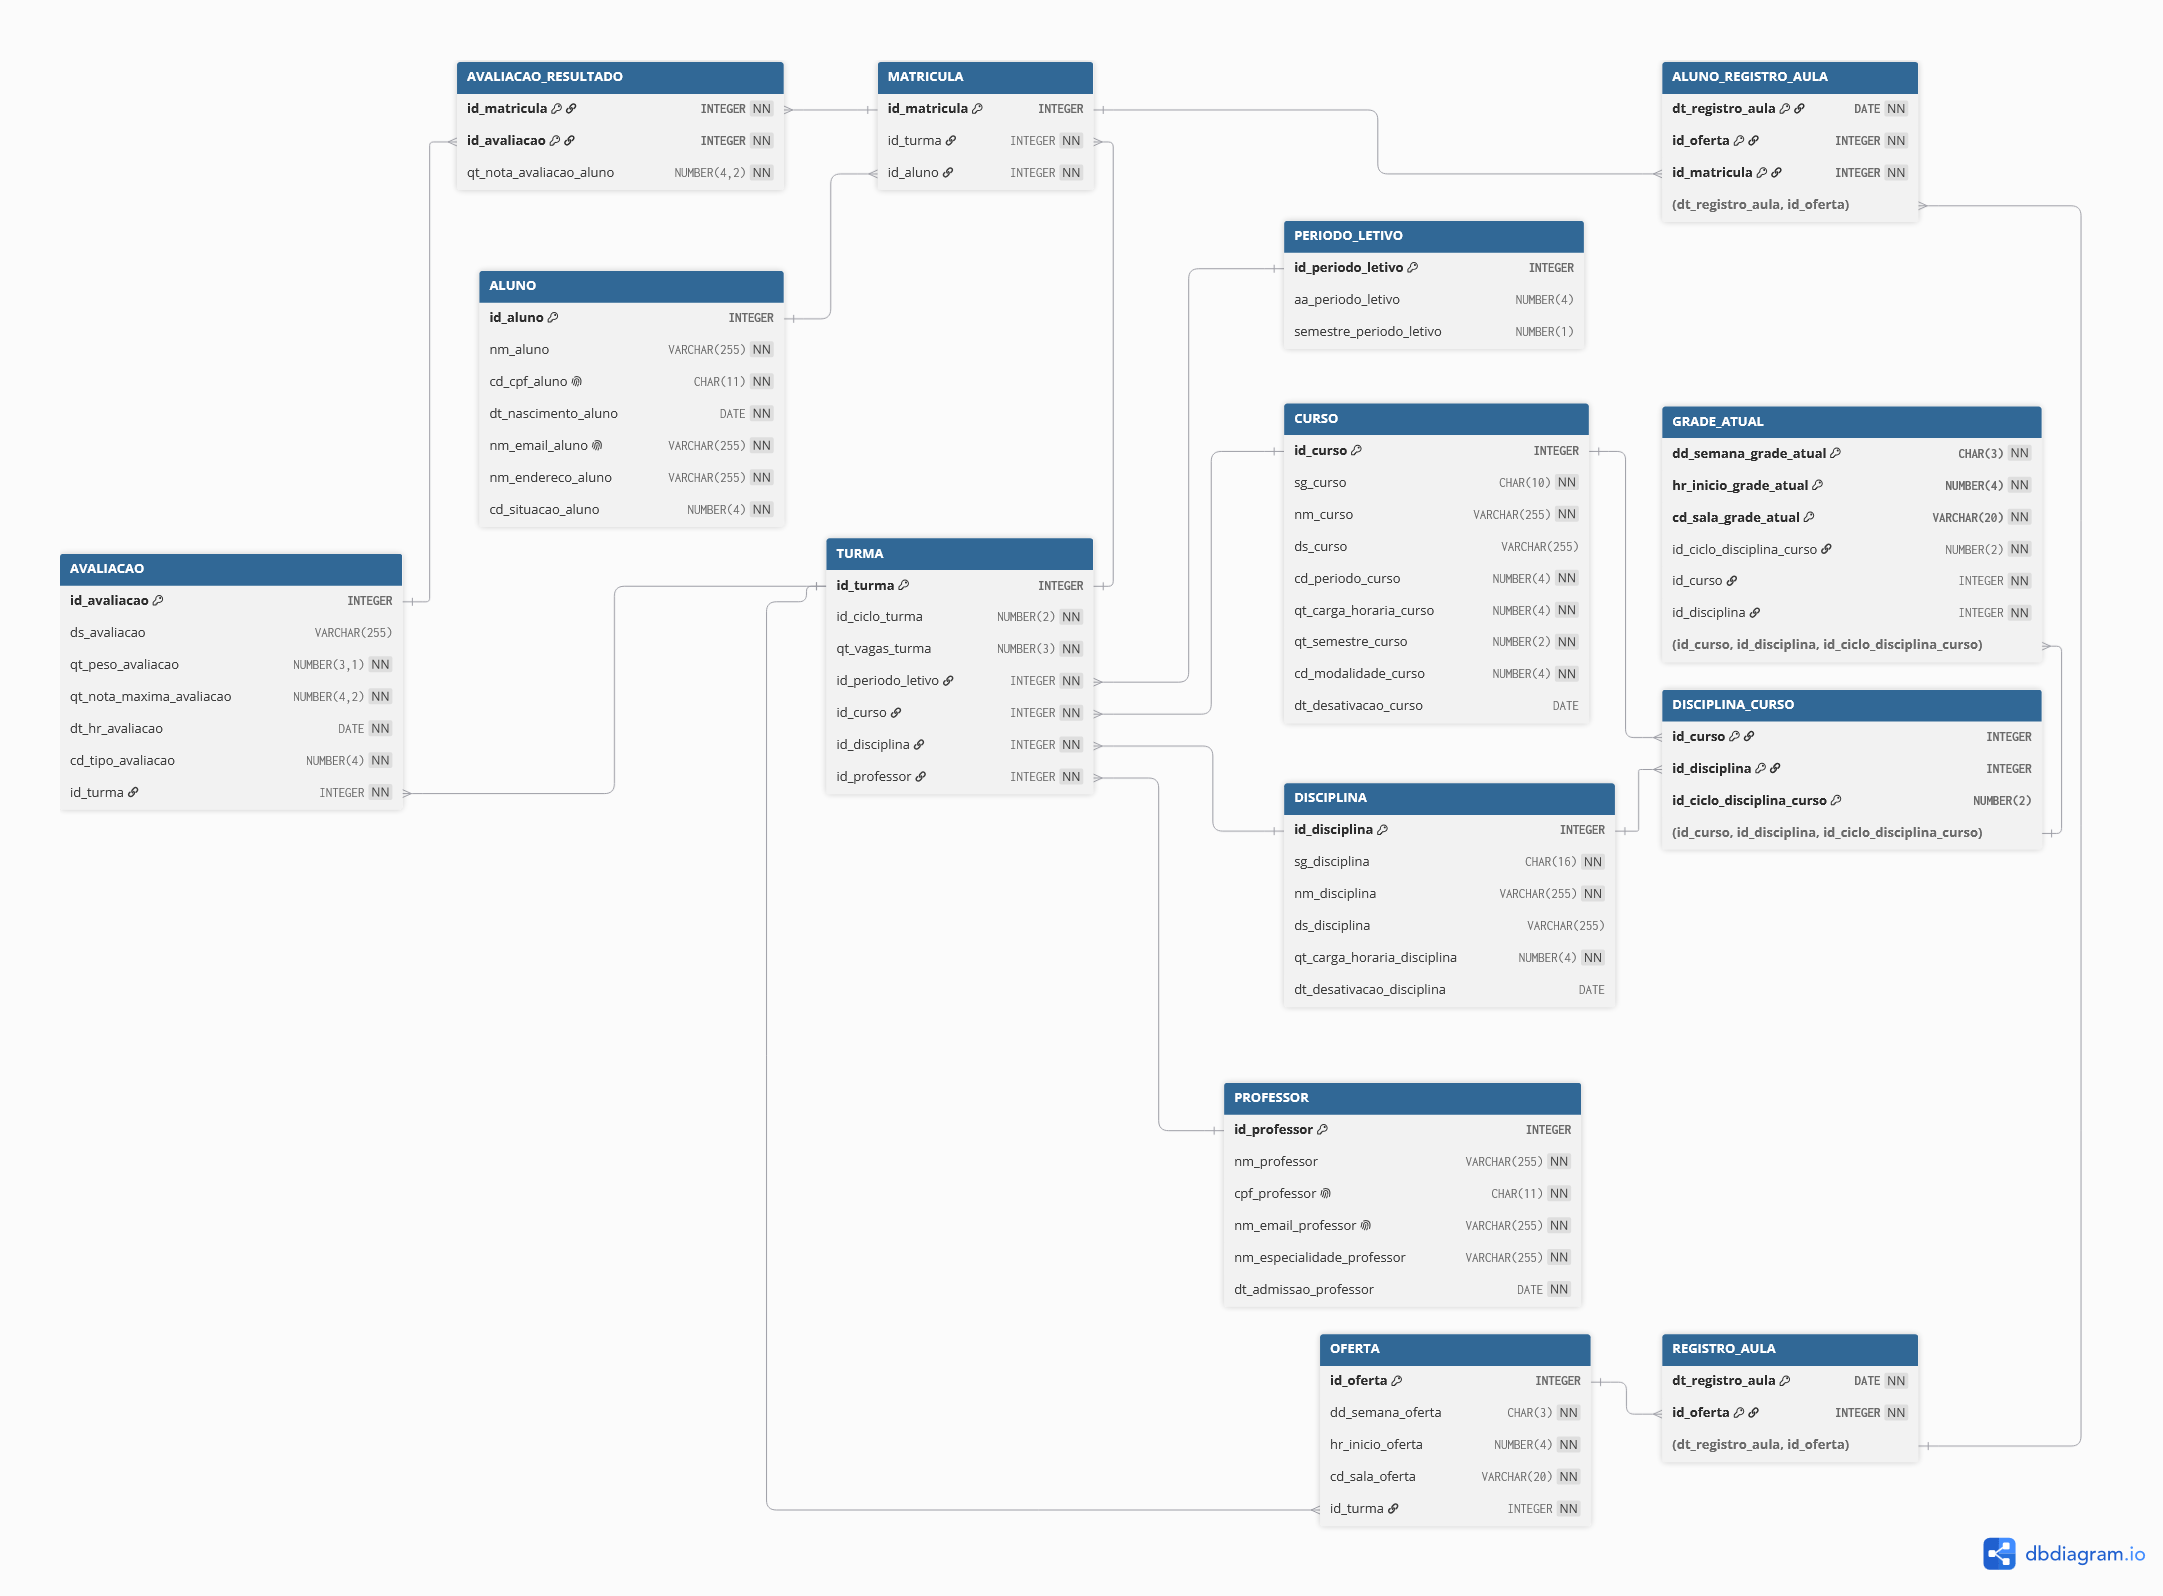
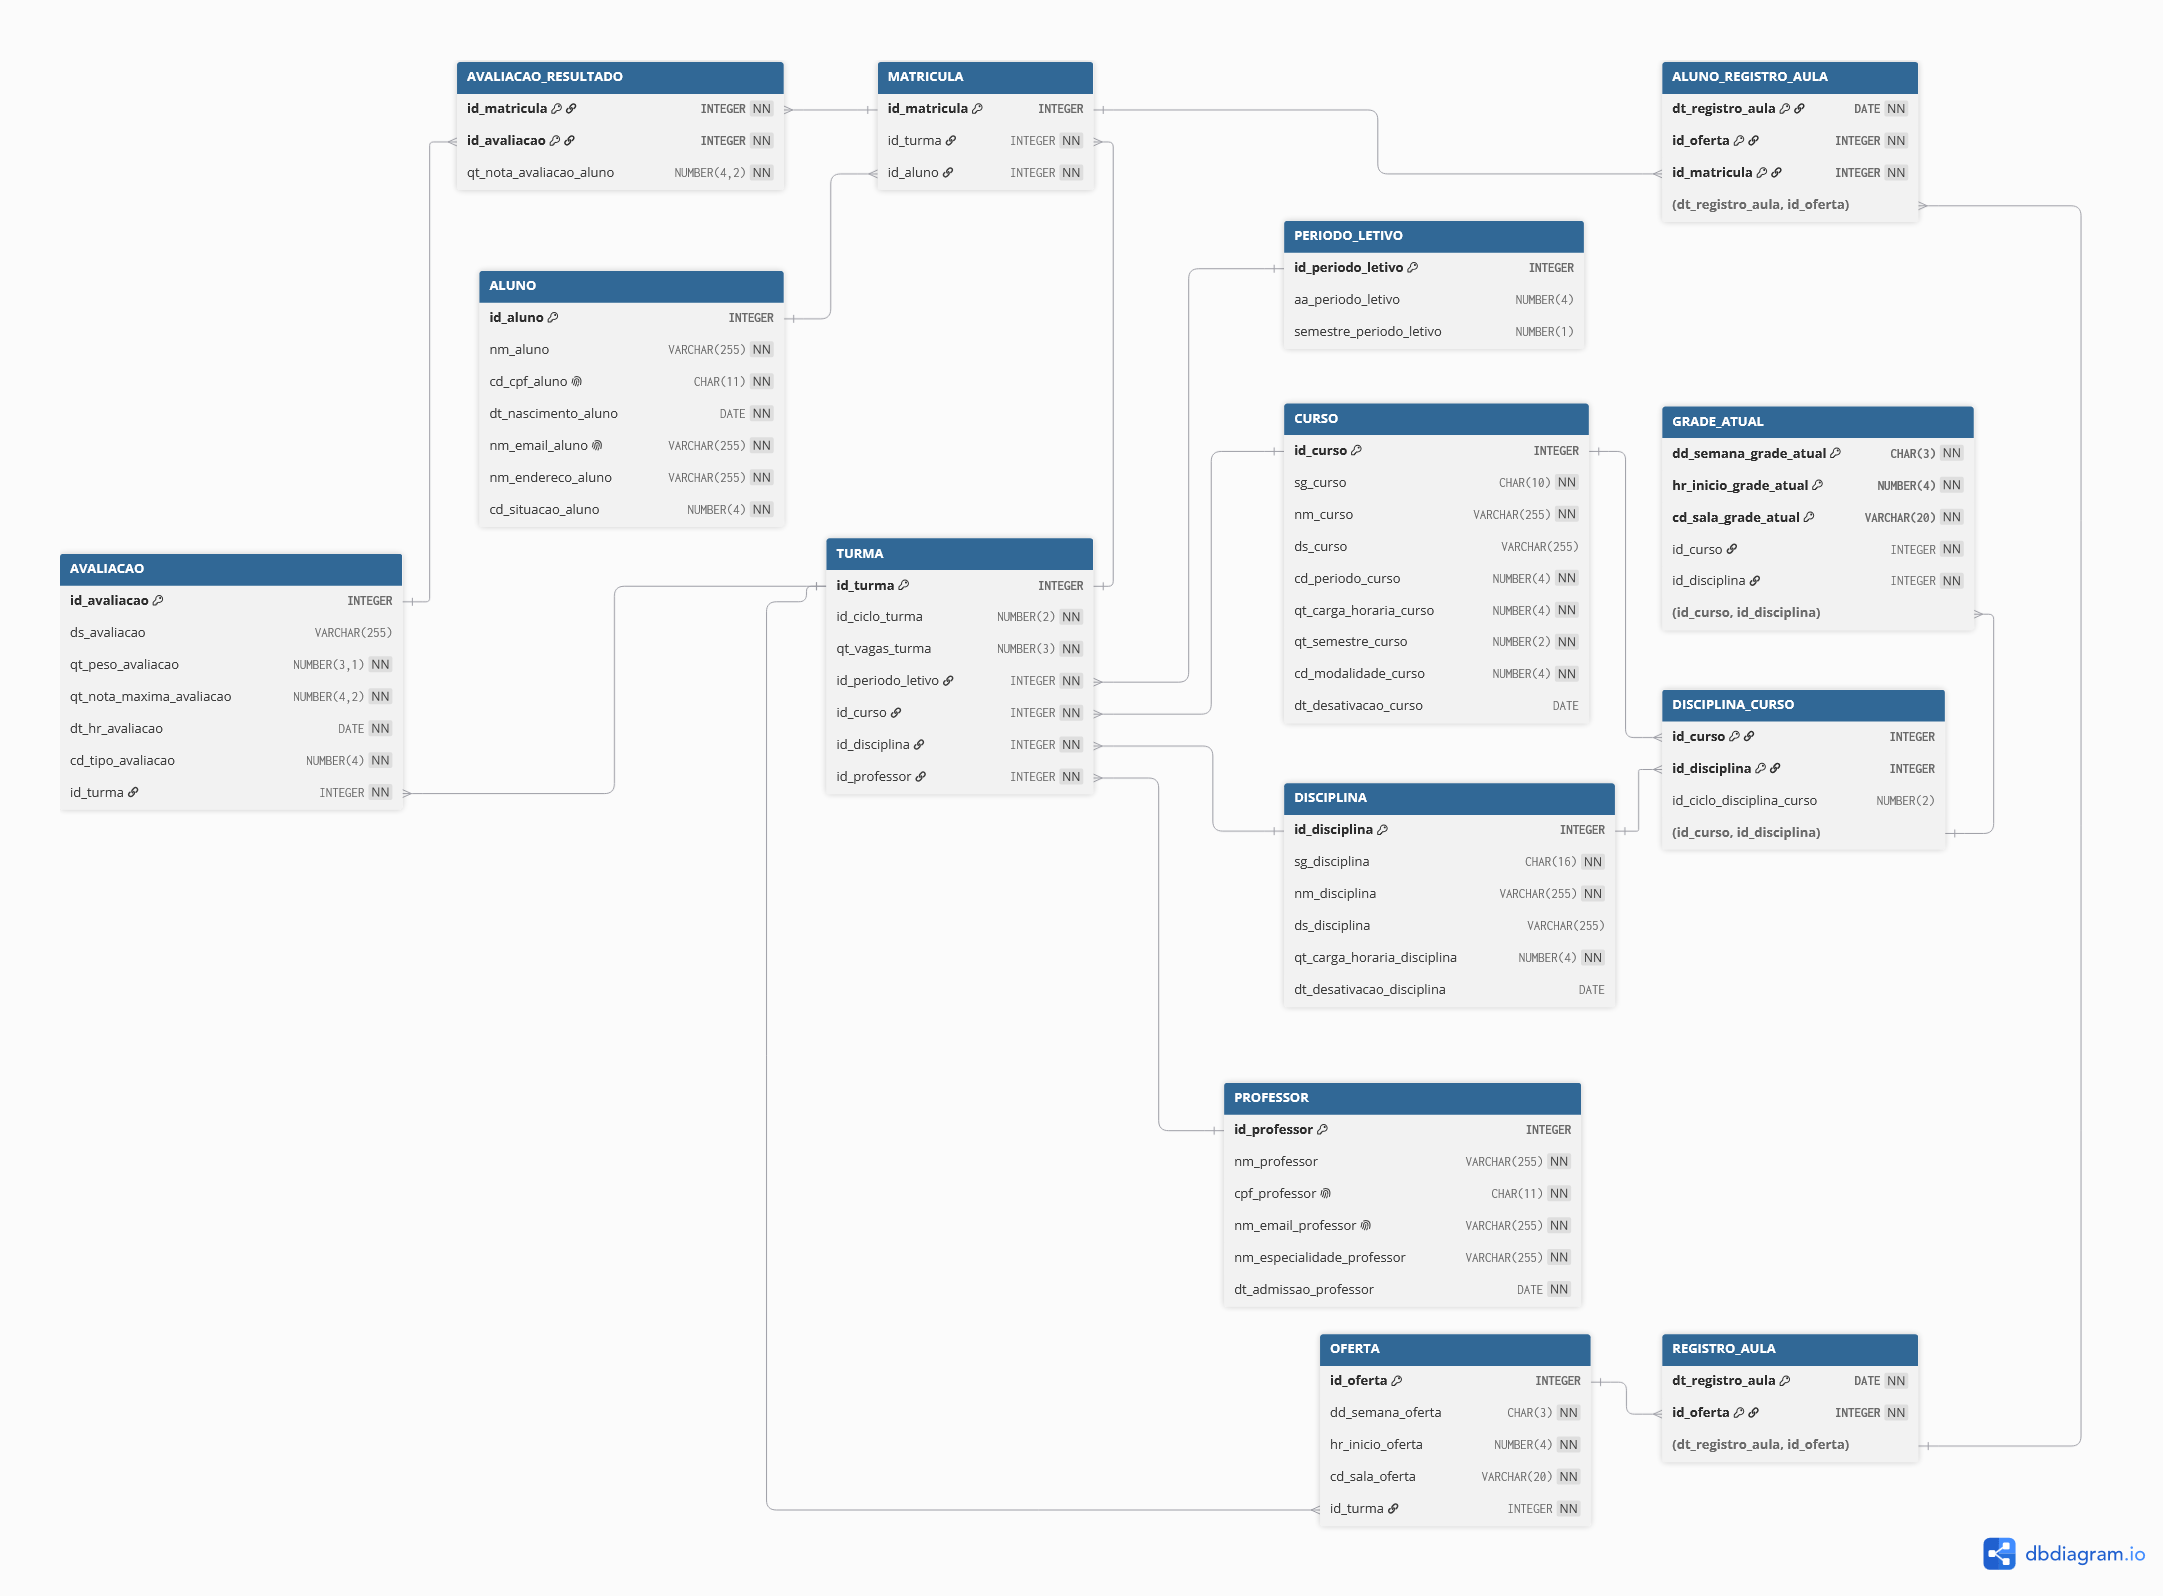
make disciplina_curso unique for one semester

diff --git a/fisico/analise_seeding/dados/disciplinas.md b/fisico/analise_seeding/dados/disciplinas.md
@@ -1,3 +1,5 @@
+TODO: refazer disciplina_curso.csv e grade.csv para atribuir nos horários específicos uma sala apropriada (pois durante as transformações você quebrou)
+
 # Análise e Desenvolvimento de Sistemas (ADS)
 
 ## 1º Semestre